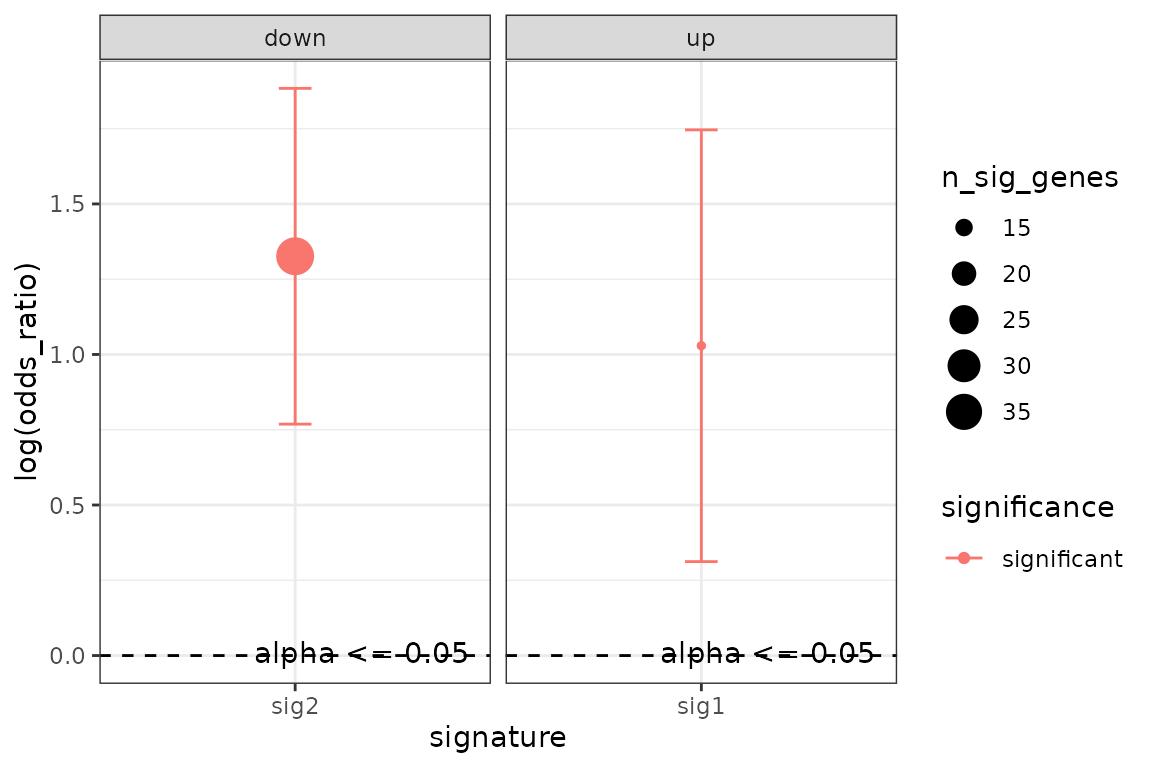
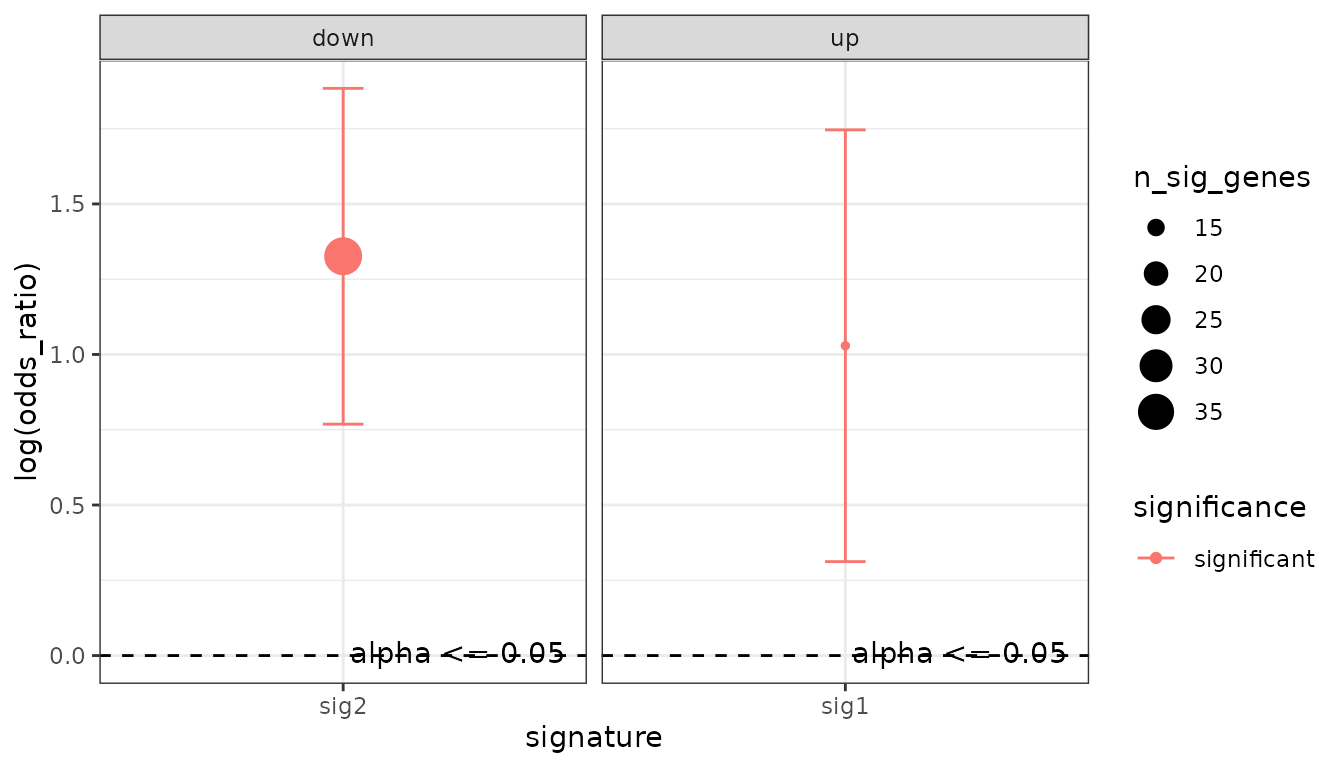
Built site for misctoolsr: 0.0.0.9000@

diff --git a/articles/enrichment_tools.html b/articles/enrichment_tools.html
@@ -297,7 +297,7 @@
 <p>Plot results:</p>
 <div class="sourceCode" id="cb5"><pre class="downlit sourceCode r">
 <code class="sourceCode R"><span class="fu"><a href="../reference/plotFisherRes.html">plotFisherRes</a></span><span class="op">(</span><span class="va">enrich_results</span><span class="op">)</span></code></pre></div>
-<p><img src="enrichment_tools_files/figure-html/unnamed-chunk-5-1.png" width="576"></p>
+<p><img src="enrichment_tools_files/figure-html/unnamed-chunk-5-1.png" width="672"></p>
 <p>Perform Fisher’s enrichment directly on a SummarizedExperiment</p>
 <div class="sourceCode" id="cb6"><pre class="downlit sourceCode r">
 <code class="sourceCode R"><span class="va">ora_results</span> <span class="op">&lt;-</span> <span class="fu"><a href="../reference/ora.html">ora</a></span><span class="op">(</span>x <span class="op">=</span> <span class="va">se</span>, cols <span class="op">=</span> <span class="fu"><a href="https://rdrr.io/r/base/c.html">c</a></span><span class="op">(</span><span class="st">"up"</span>, <span class="st">"down"</span><span class="op">)</span>, signatures <span class="op">=</span> <span class="va">sigs</span>, alpha <span class="op">=</span> <span class="fl">0.05</span><span class="op">)</span>
@@ -337,7 +337,7 @@
 <p>Plot results:</p>
 <div class="sourceCode" id="cb7"><pre class="downlit sourceCode r">
 <code class="sourceCode R"><span class="fu"><a href="../reference/plotFisherRes.html">plotFisherRes</a></span><span class="op">(</span><span class="va">ora_results</span><span class="op">)</span></code></pre></div>
-<p><img src="enrichment_tools_files/figure-html/unnamed-chunk-7-1.png" width="576"></p>
+<p><img src="enrichment_tools_files/figure-html/unnamed-chunk-7-1.png" width="672"></p>
 <div class="sourceCode" id="cb8"><pre class="downlit sourceCode r">
 <code class="sourceCode R"><span class="va">p1</span> <span class="op">&lt;-</span> <span class="fu"><a href="../reference/plotFisherRes.html">plotFisherRes</a></span><span class="op">(</span><span class="va">enrich_results</span><span class="op">)</span></code></pre></div>
   </div>

diff --git a/404.html b/404.html
@@ -18,8 +18,8 @@
 <script src="https://cdnjs.cloudflare.com/ajax/libs/twitter-bootstrap/3.4.1/js/bootstrap.min.js" integrity="sha256-nuL8/2cJ5NDSSwnKD8VqreErSWHtnEP9E7AySL+1ev4=" crossorigin="anonymous"></script>
 
 <!-- bootstrap-toc -->
-<link rel="stylesheet" href="bootstrap-toc.css">
-<script src="bootstrap-toc.js"></script>
+<link rel="stylesheet" href="https://sdgamboa.github.io/misctoolsr/bootstrap-toc.css">
+<script src="https://sdgamboa.github.io/misctoolsr/bootstrap-toc.js"></script>
 
 <!-- Font Awesome icons -->
 <link rel="stylesheet" href="https://cdnjs.cloudflare.com/ajax/libs/font-awesome/5.12.1/css/all.min.css" integrity="sha256-mmgLkCYLUQbXn0B1SRqzHar6dCnv9oZFPEC1g1cwlkk=" crossorigin="anonymous" />
@@ -33,8 +33,8 @@
 <script src="https://cdnjs.cloudflare.com/ajax/libs/headroom/0.11.0/jQuery.headroom.min.js" integrity="sha256-ZX/yNShbjqsohH1k95liqY9Gd8uOiE1S4vZc+9KQ1K4=" crossorigin="anonymous"></script>
 
 <!-- pkgdown -->
-<link href="pkgdown.css" rel="stylesheet">
-<script src="pkgdown.js"></script>
+<link href="https://sdgamboa.github.io/misctoolsr/pkgdown.css" rel="stylesheet">
+<script src="https://sdgamboa.github.io/misctoolsr/pkgdown.js"></script>
 
 
 
@@ -70,7 +70,7 @@
         <span class="icon-bar"></span>
       </button>
       <span class="navbar-brand">
-        <a class="navbar-link" href="index.html">misctoolsr</a>
+        <a class="navbar-link" href="https://sdgamboa.github.io/misctoolsr/index.html">misctoolsr</a>
         <span class="version label label-default" data-toggle="tooltip" data-placement="bottom" title="Released version">0.0.0.9000</span>
       </span>
     </div>
